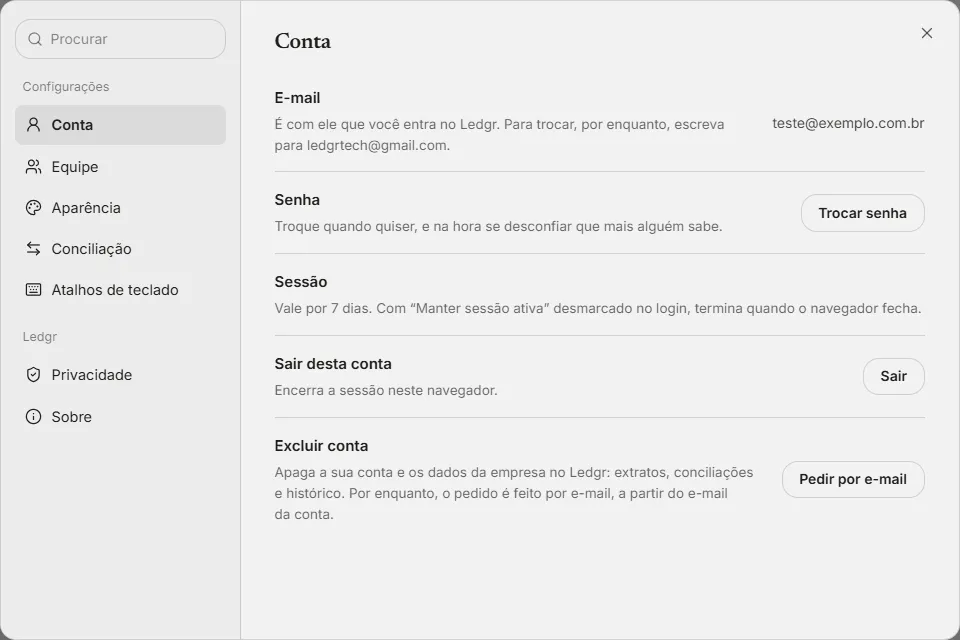
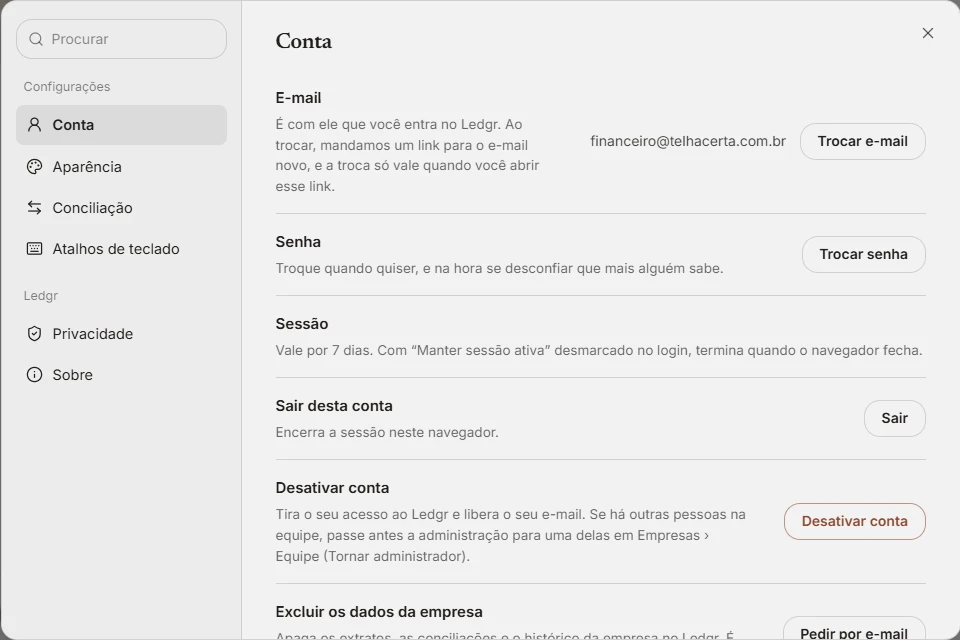
fix: desativar conta do admin aponta para a transferência; nova captura de Conta
- O texto de "Desativar conta" para o admin pedia para remover a equipe; desde
  o backend #143 a recusa (409) pede para transferir o papel de admin. A linha
  agora aponta para Empresas › Equipe › Tornar administrador.
- public/ajuda/configuracoes--conta.webp refeita com a tela atual (Trocar
  e-mail, Desativar conta, sem a seção Equipe), mesmo enquadramento 960x640.

diff --git a/app/(app)/e/[empresa]/configuracoes.test.tsx b/app/(app)/e/[empresa]/configuracoes.test.tsx
@@ -332,13 +332,13 @@ describe("Configuracoes", () => {
     desativarConta.mockReset();
     desativarConta.mockResolvedValueOnce({
       ok: false,
-      erro: "Remova os outros usuários da empresa antes de desativar a sua conta.",
+      erro: "Transfira o papel de admin antes de desativar a sua conta.",
     });
     const user = userEvent.setup();
     abrir();
     await user.click(secao("Conta"));
 
-    expect(within(linhaDe("Desativar conta")).getByText(/remova-as antes/)).toBeInTheDocument();
+    expect(within(linhaDe("Desativar conta")).getByText(/passe antes a administração/)).toBeInTheDocument();
     await user.click(screen.getByRole("button", { name: "Desativar conta" }));
     const formulario = screen.getByRole("form", { name: "Desativar conta" });
     expect(formulario).toHaveTextContent("Os dados da empresa continuam guardados até a exclusão ser pedida.");
@@ -346,7 +346,7 @@ describe("Configuracoes", () => {
     await user.click(within(formulario).getByRole("button", { name: "Desativar minha conta" }));
 
     expect(desativarConta).toHaveBeenCalledWith("s3nha");
-    expect(formulario).toHaveTextContent("Remova os outros usuários da empresa antes de desativar a sua conta.");
+    expect(formulario).toHaveTextContent("Transfira o papel de admin antes de desativar a sua conta.");
   });
 
   it("a Google-only account deactivates without a password field", async () => {
@@ -416,12 +416,12 @@ describe("Configuracoes", () => {
     expect(screen.queryByText("Convidar pessoa")).not.toBeInTheDocument();
   });
 
-  it("tells the admin where to remove the other people before deactivating the account", async () => {
+  it("tells the admin to hand over the administration before deactivating the account", async () => {
     const user = userEvent.setup();
     abrir({ papel: "admin" });
 
     await user.click(secao("Conta"));
-    expect(screen.getByText(/remova-as antes em Empresas › Equipe/)).toBeInTheDocument();
+    expect(screen.getByText(/passe antes a administração para uma delas em Empresas › Equipe/)).toBeInTheDocument();
   });
 
   it("closes from the close button", async () => {

diff --git a/app/(auth)/acoes.test.ts b/app/(auth)/acoes.test.ts
@@ -607,11 +607,11 @@ describe("a conta de quem está logado", () => {
     expect(signOut).toHaveBeenCalledWith({ redirectTo: "/" });
   });
 
-  it("mostra o que o backend pede: senha certa, login recente, ou a equipe removida antes", async () => {
+  it("mostra o que o backend pede: senha certa, login recente, ou a administração transferida antes", async () => {
     for (const [status, texto] of [
       [400, "Senha atual incorreta."],
       [409, "Entre de novo com o Google para confirmar a desativação."],
-      [409, "Remova os outros usuários da empresa antes de desativar a sua conta."],
+      [409, "Transfira o papel de admin antes de desativar a sua conta."],
     ] as const) {
       respostaDoBackend(status, { detail: texto });
       expect(await desativarConta(status === 400 ? "errada" : null)).toEqual({ ok: false, erro: texto });

diff --git a/app/(app)/e/[empresa]/configuracoes.tsx b/app/(app)/e/[empresa]/configuracoes.tsx
@@ -556,7 +556,7 @@ export function Configuracoes({
         {
           titulo: "Desativar conta",
           descricao: papel === "admin"
-            ? "Tira o seu acesso ao Ledgr e libera o seu e-mail. Se há outras pessoas na equipe, remova-as antes em Empresas › Equipe: sem você, a empresa fica sem acesso."
+            ? "Tira o seu acesso ao Ledgr e libera o seu e-mail. Se há outras pessoas na equipe, passe antes a administração para uma delas em Empresas › Equipe (Tornar administrador)."
             : "Tira o seu acesso ao Ledgr e libera o seu e-mail. O que você conferiu e justificou continua no histórico da empresa, com o seu nome.",
           controle: (
             <AcaoDaConta

diff --git a/app/(auth)/acoes.ts b/app/(auth)/acoes.ts
@@ -693,7 +693,7 @@ export async function confirmarEmail(token: string): Promise<ResultadoConfirmaca
  * senha: com um token roubado, sem ela, dava para tirar a pessoa da conta. A conta só do Google não
  * tem senha (null): o backend confere o login recente e, se for antigo, responde 409 com o texto
  * que pede para entrar de novo pelo Google. O administrador com outras pessoas na equipe também
- * recebe 409, pedindo para removê-las antes.
+ * recebe 409, pedindo para transferir antes o papel de admin (backend #143).
  */
 export async function desativarConta(senhaAtual: string | null): Promise<ResultadoConta> {
   const conta = await naConta(() =>

diff --git a/CLAUDE.md b/CLAUDE.md
@@ -27,7 +27,7 @@
 - **Team and invites** (backend #69/#73, `docs/superpowers/specs/2026-10-16-equipe-e-convites-design.md`). Three roles (#133): the admin signed the company up; the gestor and the analista come by invite. The **Equipe tab of the Empresas screen** (`app/(app)/e/[empresa]/empresas/painel-da-equipe.tsx`, actions in `equipe/acoes.ts`; it lived in Configurações until 23/10: each person with initials avatar, "você" and the role as a label, pending invites in dashed rows, the invite as a panel with one **card per role** explaining what it allows, the least powerful role preselected, "Remover" asking for confirmation on the row; the signed-in person is marked by `useEmail()` from `ProvedorDaConta`) lists people from `GET /empresa/usuarios` (everyone) and, for the admin and the gestor, pending invites from `GET /empresa/convites` (a 403 there leaves the list without them, it does not break the team), with invite (`POST` with `{ email, papel }`: the admin invites gestor or analista, the gestor only analista; 409/429 with `Retry-After` in `ErroBackend.segundosParaTentar`/503 while the backend's e-mail is off), cancel and remove (cuts access at once). The invite link is `/aceitar-convite#token=...` (`app/(auth)/aceitar-convite/`): the page reads the token from the fragment, clears it, calls `POST /convites/consultar` and accepts with name and password (`POST /convites/aceitar`, then `entrar`) or with Google: "Aceitar com Google" stores the token in the httpOnly cookie `ledgr-convite-google` (1 hour) and `aoVoltarDoGoogle` sees it and calls `POST /convites/aceitar/google` instead of `/login/google`; refusals come back as `/aceitar-convite?google=<motivo>` and the server re-reads the invite from the cookie (`conviteDoCookie`). Someone already signed in sees "Sair e continuar" first. The plan limit for people only warns (see the bullet above). Everybody justifies (decision of 21/10); closing or reopening a month is for the admin and the gestor (`podeFecharMes` in `lib/papel.ts`, text in `lib/gestor.ts`): `ProvedorDaConta` carries `papel` (`usePapel`, `usePodeFechar`), the Fechamentos panel hides those buttons for the analista with a one-line reason, and `fecharMes`/`reabrirMes` refuse with 403 before calling the backend. The lock that counts is the backend's (backend #132/#133), whose 403 maps to the same text. **Role change and admin transfer** (front #169 part C, `docs/superpowers/specs/2026-10-23-papel-e-transferencia-design.md`): for the admin only, the role of each other person in the Equipe tab is a button with a menu (`MenuDePapel`: Gestor and Analista, each explained, the current one marked, then "Tornar administrador…"; one menu open at a time, Esc and a click outside close it, arrows move). Choosing the other role is immediate (`trocarPapel` → `PATCH /empresa/usuarios/{id}`, never `admin`: that one is a 422 on the backend; the same role does not call it) with "Salvando…" and the error on the person's row; a 403 or 404 re-reads the team. "Tornar administrador…" opens a modal (`TransferirAdmin`, `transferirAdmin` → `POST /empresa/admin/transferencia`, 5 a minute on the backend: 429 reads `Retry-After`) that warns the admin becomes Gestor and asks the current password like deactivating the account; a Google-only account (`useTemSenha()` from `ProvedorDaConta`, fed by the Shell) has no field and the backend's 409 asks for a recent login. One submit at a time (a `ref`). On success the response's list replaces the team, a `role="status"` line says who is the admin now, and `router.refresh()` re-reads `GET /me`, so the old admin loses the controls without a new login (no session is ended). The admin's own row and any admin's row have no menu. Removing people stays with the admin.
 - **The ERP's PDF is not accepted** until the backend's spike (#84) decides, by 13/10: the backend answers 400 for anything but `.ofx`/`.csv`. The upload fields and every text that offered "CSV ou PDF" say CSV only; commits `8cddca7` and `0e15b2e` show what to bring back if it returns (system side only).
 - **Changing the account e-mail is real** (backend #149/PR #152, ADR-012 addendum of 22/10). Configurações › Conta › "Trocar e-mail" (accounts with a password only; a Google-only account's e-mail is Google's and the backend answers 409) sends `POST /me/email` with the new e-mail and the current password (`trocarEmail`). The backend answers 202 and e-mails a link to the NEW address, `/confirmar-email#token=...` (60 minutes, single use, a new request cancels it) and a notice to the current one: nothing changes yet, so the session stays as it is. The page (`app/(auth)/confirmar-email/`) reads the token from the fragment, clears it, and confirms only on a click ("Confirmar e-mail novo", because e-mail link scanners open pages by themselves) through `confirmarEmail` → `POST /me/email/confirmar` (public). On success the backend ends every session of that person, so the page sends to the login with the new e-mail; 400 is an expired/used link, 409 the e-mail was taken meanwhile.
-- **Deactivating the account is real** (`DELETE /me`, backend #68, `desativarConta`): Configurações › Conta › "Desativar conta" asks the current password (none for a Google-only account, where the backend checks a recent login and answers 409 otherwise), ends the access, frees the e-mail and signs out. An administrator with other people on the team gets the backend's 409 asking to remove them first. The company's data stays: deleting it is on request ("Excluir os dados da empresa" › "Pedir por e-mail", an internal script on the backend), as the privacy policy says.
+- **Deactivating the account is real** (`DELETE /me`, backend #68, `desativarConta`): Configurações › Conta › "Desativar conta" asks the current password (none for a Google-only account, where the backend checks a recent login and answers 409 otherwise), ends the access, frees the e-mail and signs out. An admin with other active people on the account gets the backend's 409 asking to transfer the admin role first (backend #143); the row's text points to Empresas › Equipe › "Tornar administrador". The company's data stays: deleting it is on request ("Excluir os dados da empresa" › "Pedir por e-mail", an internal script on the backend), as the privacy policy says.
 - **First use** (`docs/superpowers/specs/2026-10-15-primeiro-uso-design.md`). The signup has three steps (access, company, management system; the bank step is gone) and ends on the Visão geral. Each screen has a mascot tutorial (`app/(app)/tutorial/`, texts in `roteiros.ts`, targets marked with `data-tutorial`), reopened by "Rever o tutorial" in the top bar's Ajuda menu; the Visão geral shows the first-steps roteiro (`visao-geral/roteiro.ts`, data from `carregarRoteiro`) until the first closed month or "Já sei usar". What was dismissed lives in `ProvedorDaConta` (`app/(app)/conta.tsx`): `preferencias` from `GET /me` plus `localStorage`, written to both through `PATCH /me/preferencias`, which the backend may not have yet. The 14-day trial reads `situacao`/`plano`/`teste_termina_em` from `GET /me` (`lib/assinatura.ts`): `sem_plano` sends the app to `/plano` (`POST /empresa/plano`; a guided choice: a slider asks how many entries a month and the card shows the plan for it, over 350 it is "Fale com a gente"; no billing period yet, it comes with the gateway and the partners' discounts, #167), `teste` shows the days left in the top bar, `teste_encerrado` (or a 402 when conciliating) swaps the new conciliation for the plans. **Without those fields nothing blocks**, so production keeps working until the backend ships them. "Tolerância revisada" needs nothing new: `atualizado_em` of `/empresa/configuracoes` is null before the first change.
 - **Help is front-only** (#171, `docs/superpowers/specs/2026-10-20-central-de-ajuda-design.md`). The top bar's "Ajuda" button (`app/(app)/ajuda/menu-de-ajuda.tsx`) opens a menu: "Ajuda desta tela" (a side panel, `painel-de-ajuda.tsx`, listing the screen's features with links to `/ajuda/<pagina>#<funcao>`), "Rever o tutorial" and the Central de ajuda (`/ajuda/[pagina]`). The Central is a separate system in its own route group, `app/(ajuda)/`: full screen, without the app menu and top bar, behind the same login check, with one exit, "Voltar ao Ledgr", back to the screen it was opened from (`ajuda/voltar.ts`, sessionStorage, same-site paths only; else the Visão geral). It has one page per app screen, in menu order, each listing ALL its features (what it does, how to do it, a note), with the screens on the left, the text in the center and "Nesta página" on the right; written in `app/(ajuda)/ajuda/paginas.ts` (`**negrito**` marks button names), no editor. Pictures are screenshots of the app with the test account in `public/ajuda/` (each with its size, so the space is reserved and anchor scrolling lands right); a page gets a video only when `video` points to a file there, otherwise the cover says "Vídeo desta tela em breve".
 - `lib/mock-data.ts` still backs everything in the list above. When a real endpoint shows up, the swap point is named in a `ponytail:` comment next to the mock call.
